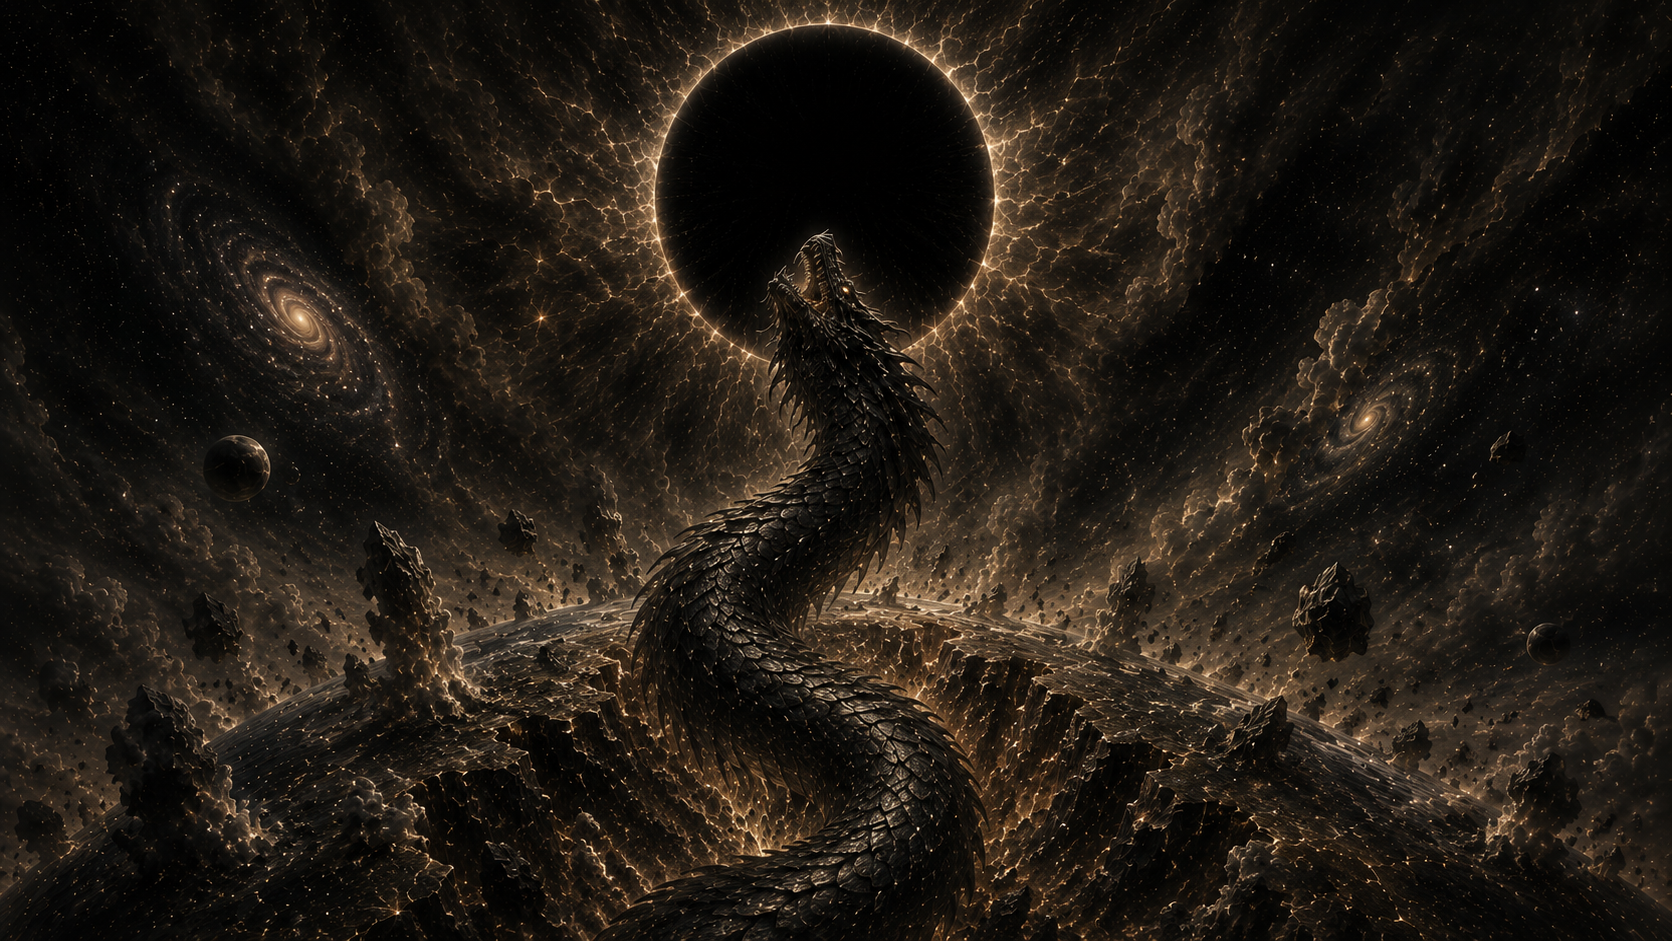
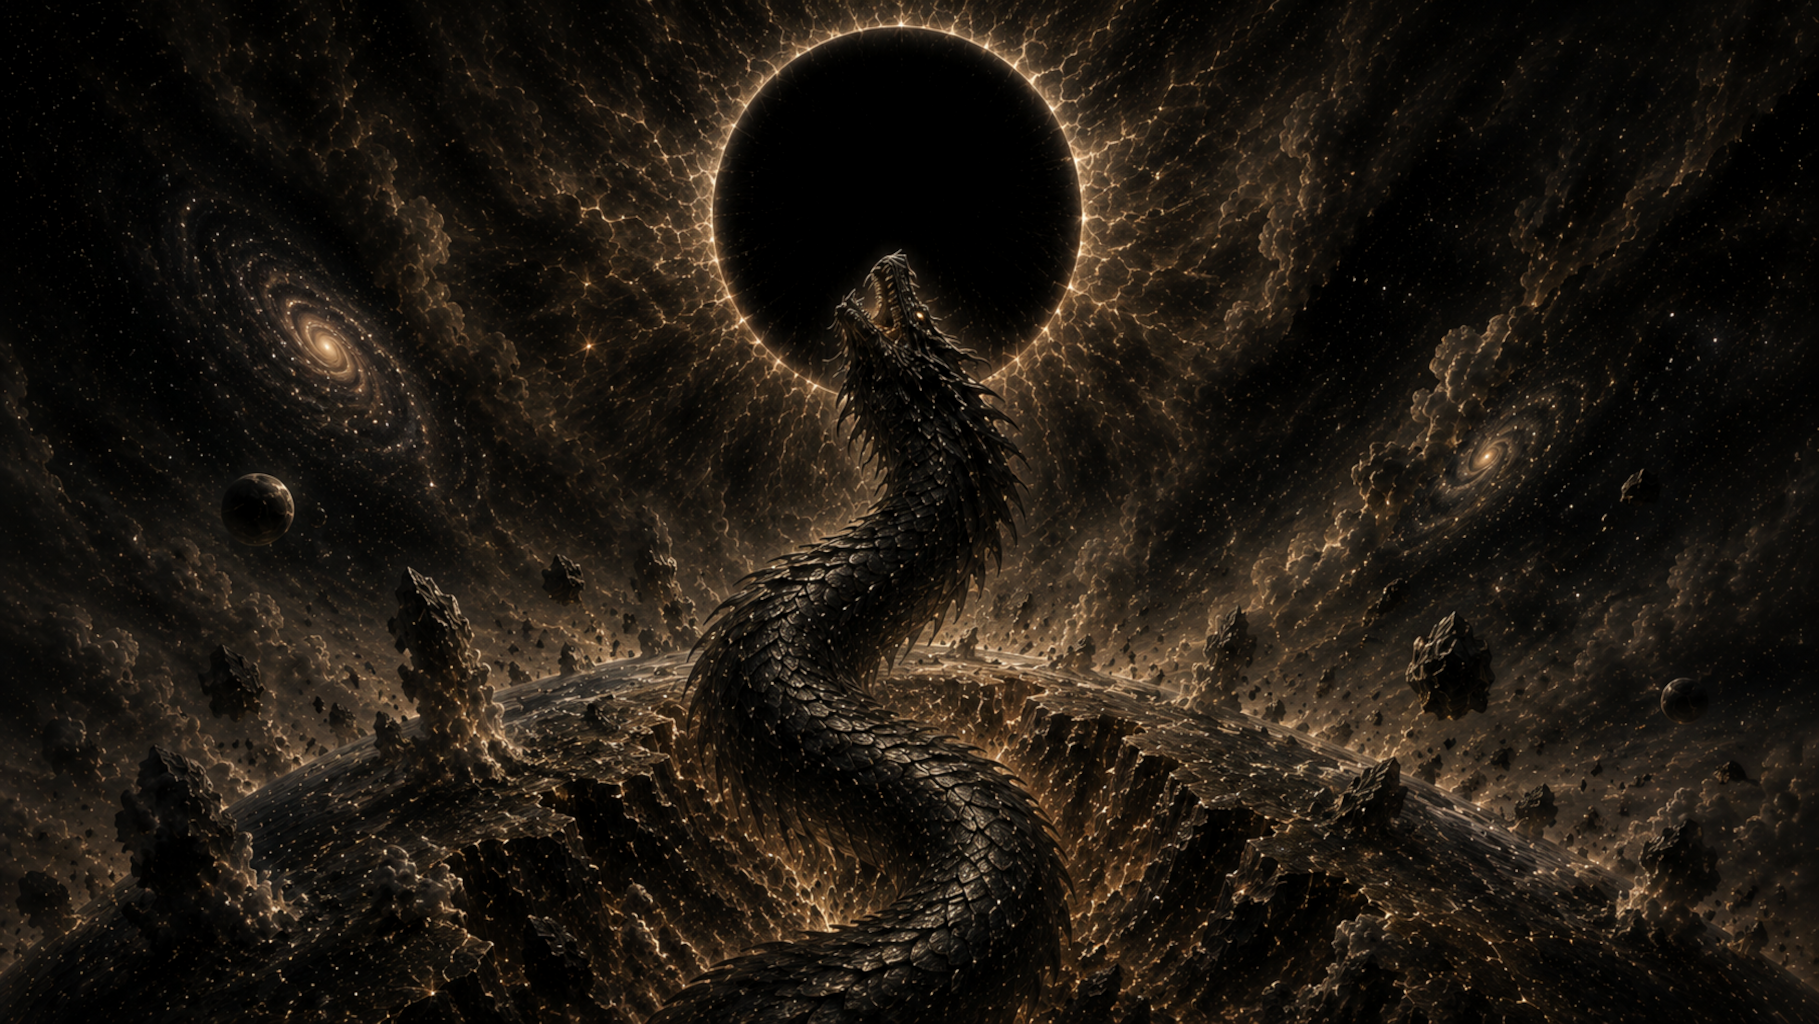
adjust-panel10-contrast

Changed region(s): [[0.4976, 0.7396, 0.5287, 0.7705], [0.4354, 0.5239, 0.4665, 0.5547]]

diff --git a/index.html b/index.html
@@ -159,25 +159,7 @@
       color: var(--fg-dark);
     }
 
-    /* === PANEL 10 — portrait format === */
-
-    #panel-10 {
-      background-color: #000;
-    }
-
-    #panel-10 .panel-image {
-      background-color: #000;
-      display: flex;
-      justify-content: center;
-    }
-
-    #panel-10 .panel-image img {
-      height: 100vh;
-      width: auto;
-      max-width: 100%;
-    }
-
-    /* === FOOTER === */
+/* === FOOTER === */
 
     footer {
       background-color: var(--bg-dark);